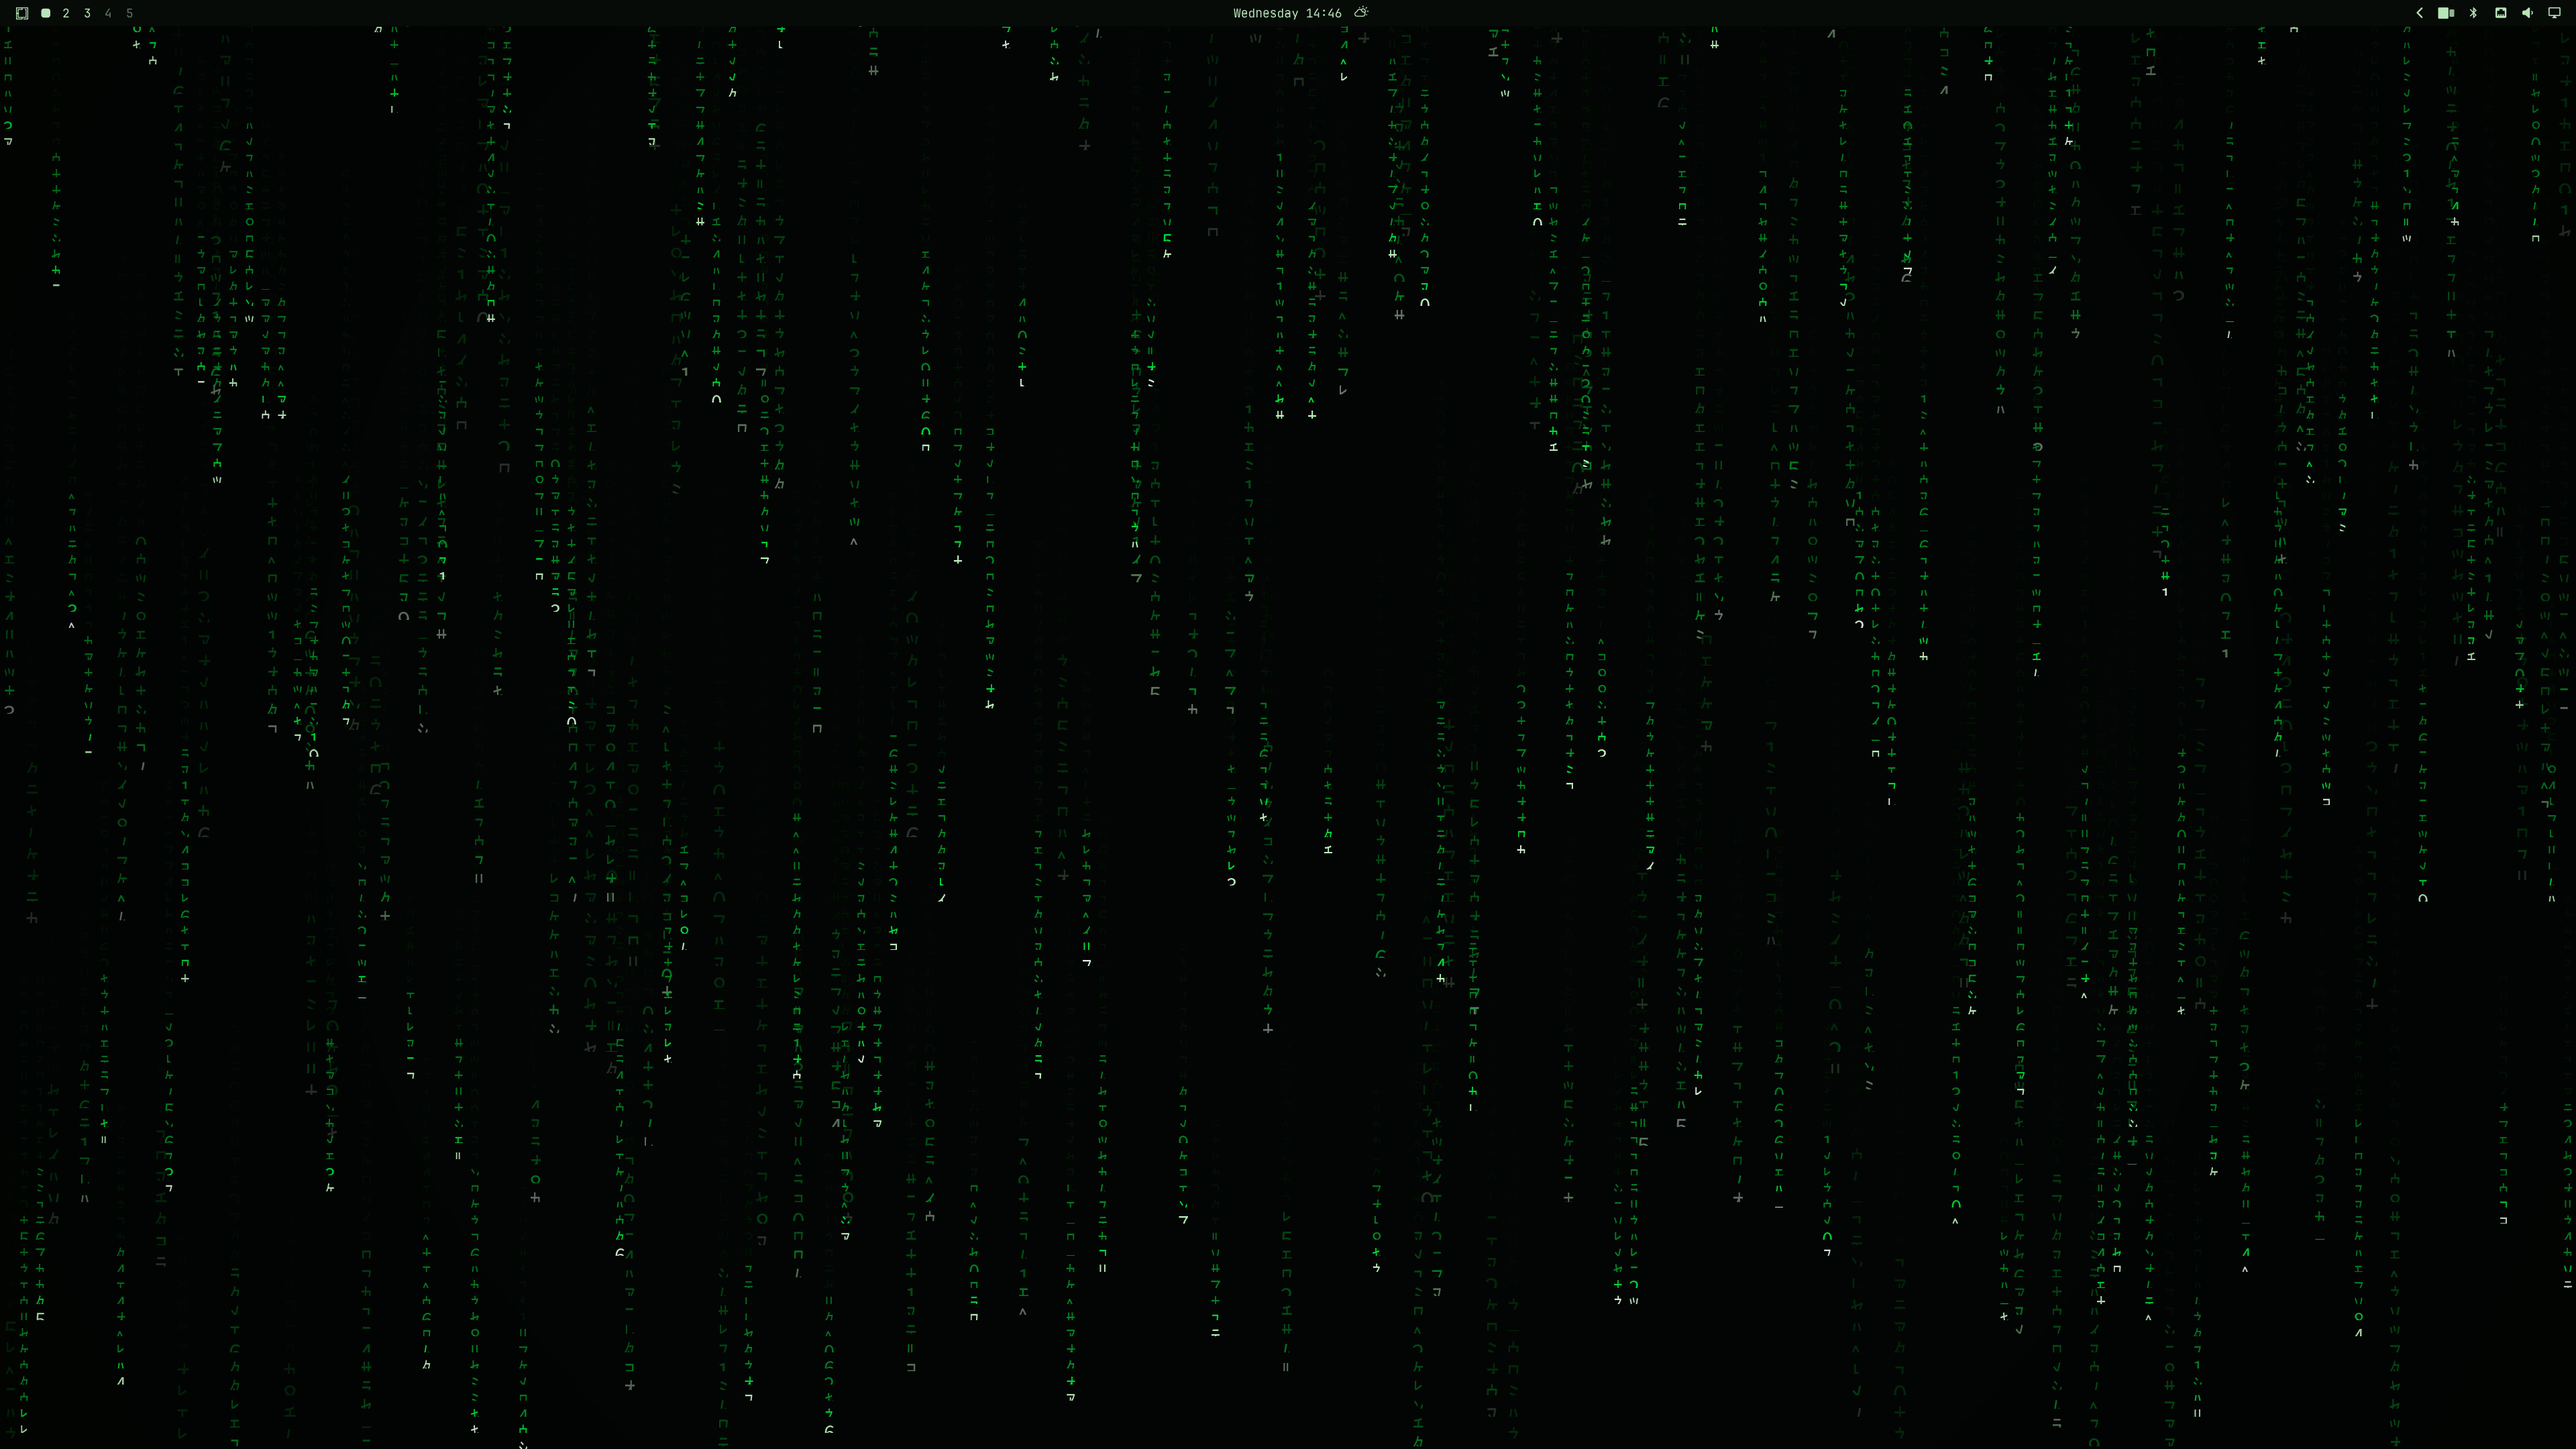
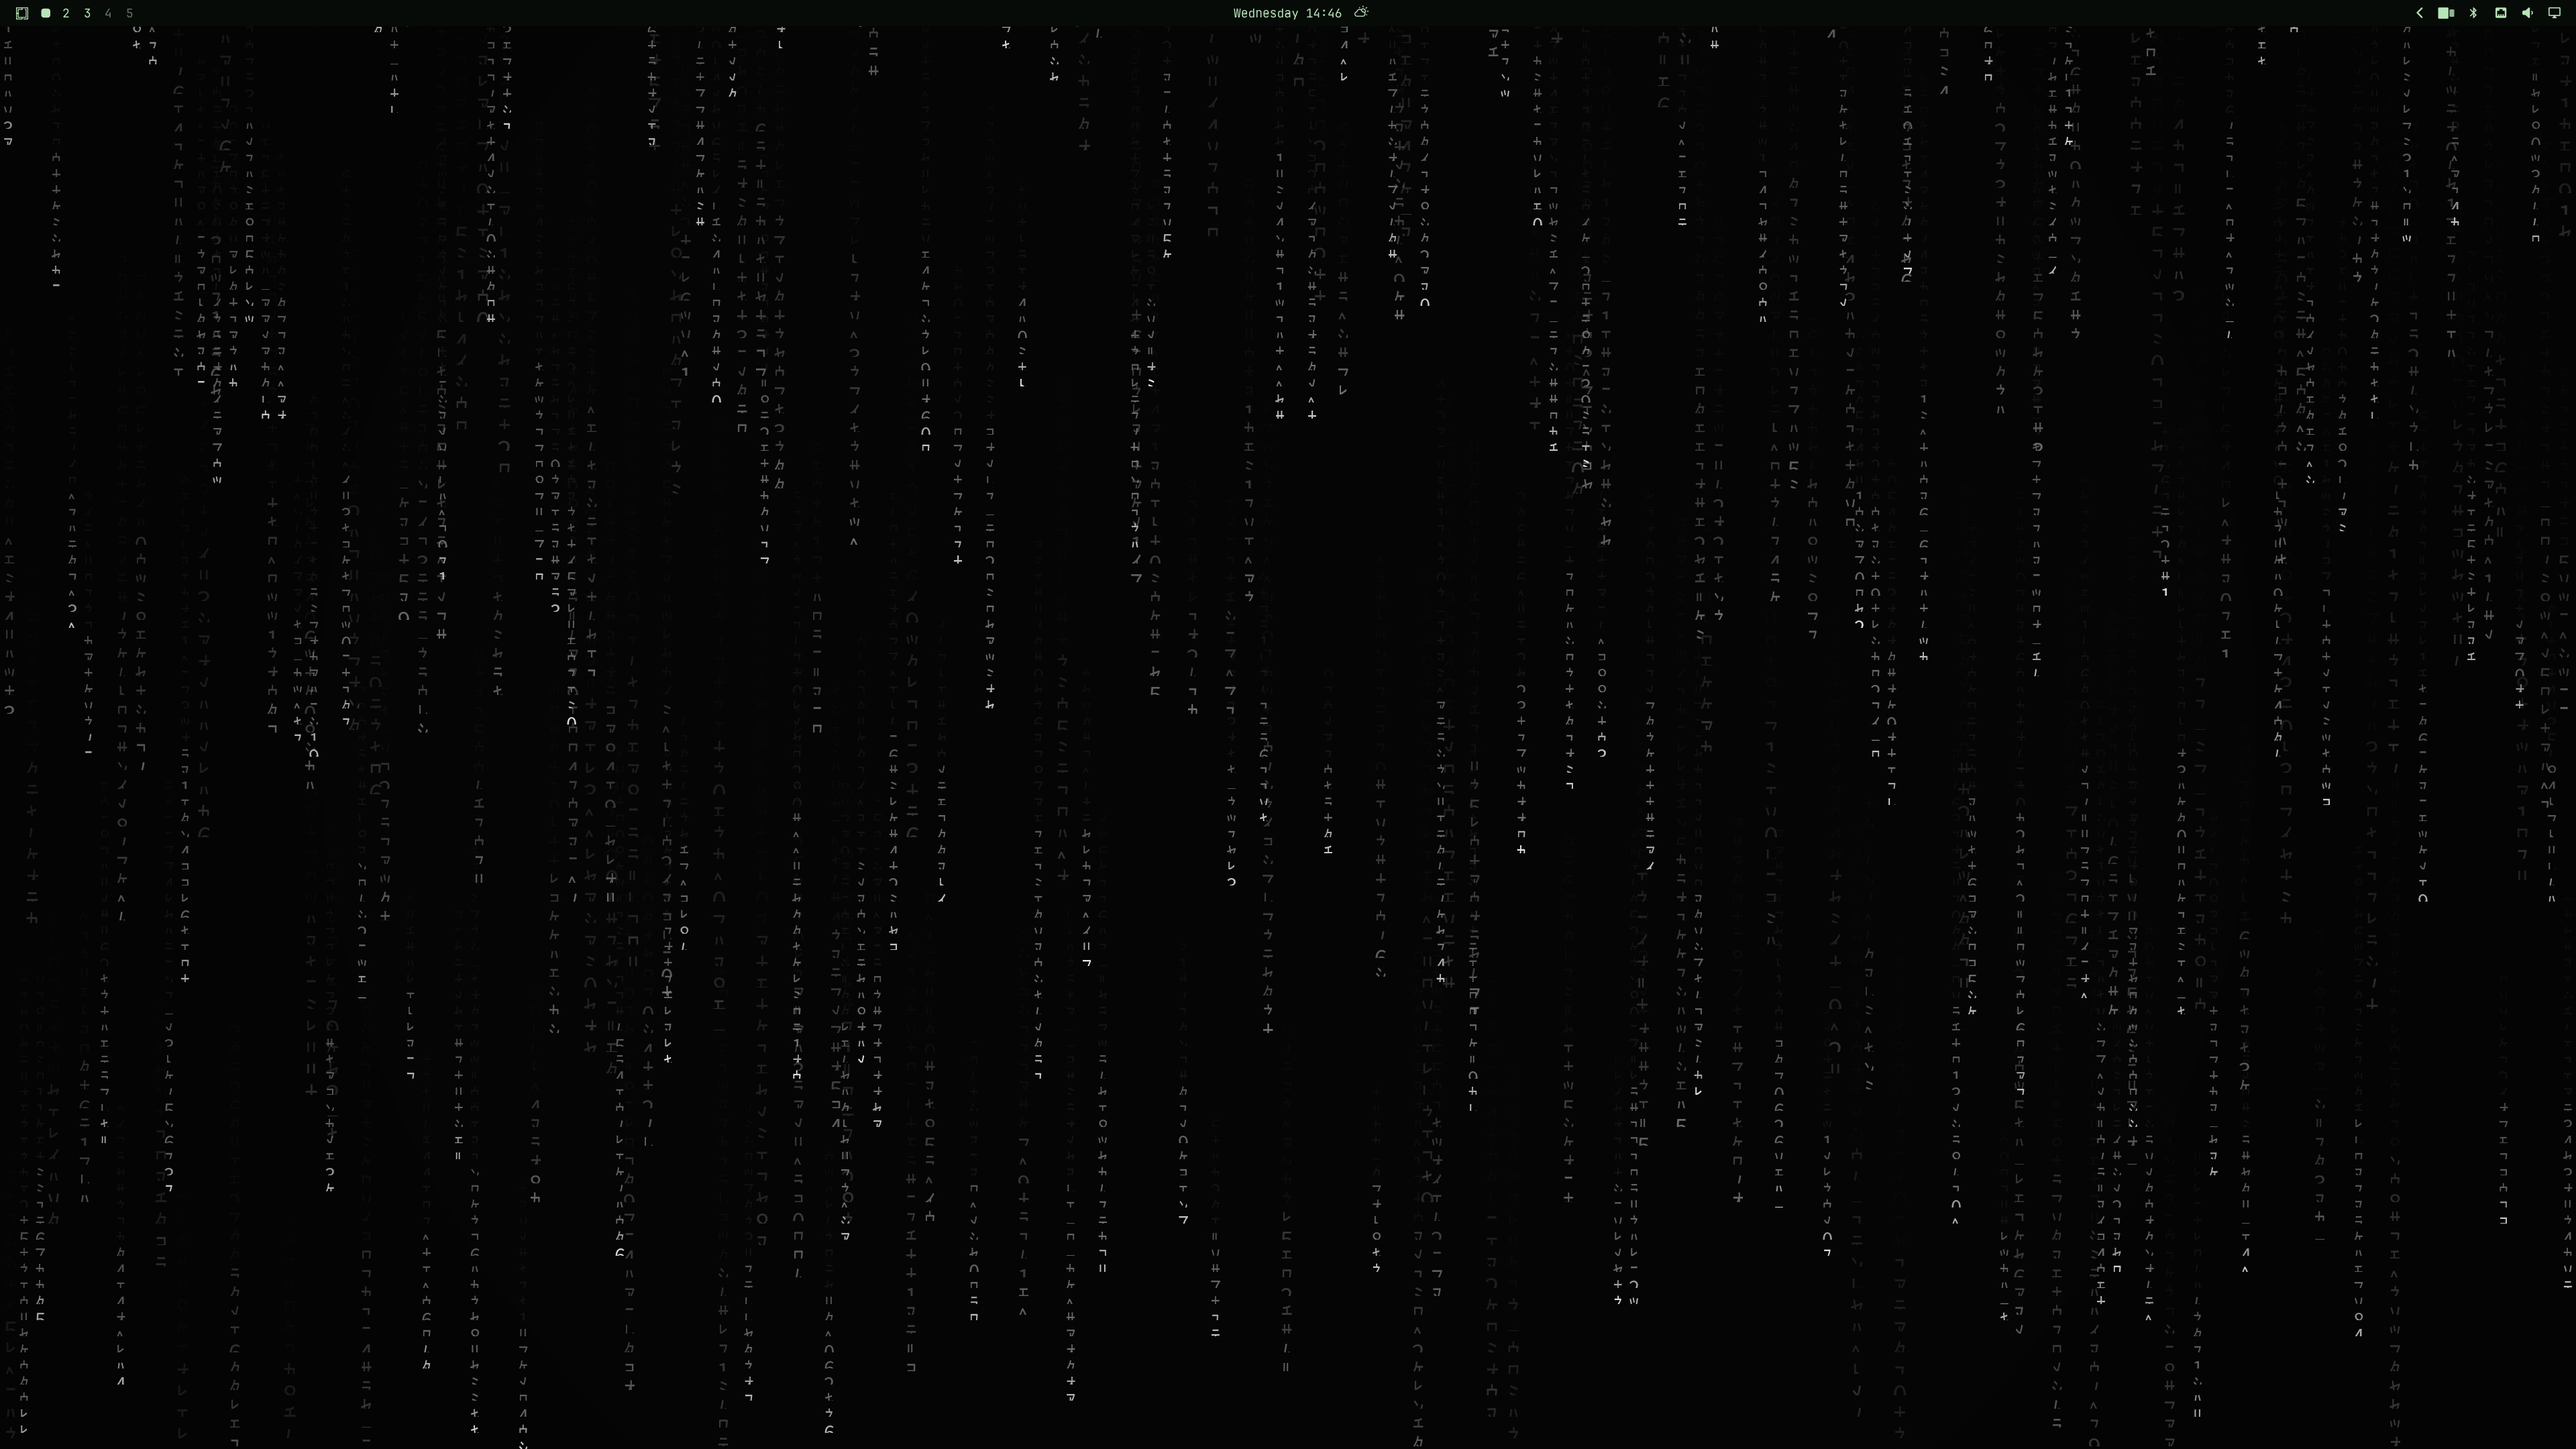
Make mono rain the default background.
Omarchy picks backgrounds[0] after sort, so 1-mono-rain.jpg is first.

Changed region(s): [[0.5938, 0.2481, 0.625, 0.2792]]

diff --git a/scripts/render_rain.py b/scripts/render_rain.py
@@ -159,8 +159,8 @@ def main() -> None:
     out = sys.argv[1] if len(sys.argv) > 1 else os.path.join(os.path.dirname(__file__), "..", "backgrounds")
     os.makedirs(out, exist_ok=True)
     jobs = [
-        ("1-falling-code.png", 1999, 24, 0.92, "matrix"),
-        ("2-mono-rain.png", 1999, 24, 0.92, "mono"),
+        ("1-mono-rain.png", 1999, 24, 0.92, "mono"),
+        ("2-falling-code.png", 1999, 24, 0.92, "matrix"),
     ]
     for name, seed, cell, density, palette_name in jobs:
         png = os.path.join(out, name)

diff --git a/README.md b/README.md
@@ -39,8 +39,8 @@ steel blue. No magenta nightclub.
 
 All five are **3840×2160**.
 
-1. **Falling code** — dense katakana rain
-2. **Mono rain** — the same rain on a white-phosphor CRT
+1. **Mono rain** — white-phosphor CRT (default)
+2. **Falling code** — the same rain in Matrix green
 3. **Green street** — empty city, rain, CRT color grade
 4. **The office** — cubicles, CRTs, fluorescent
 5. **Hotel corridor** — 1999 carpet, rain on the far window
